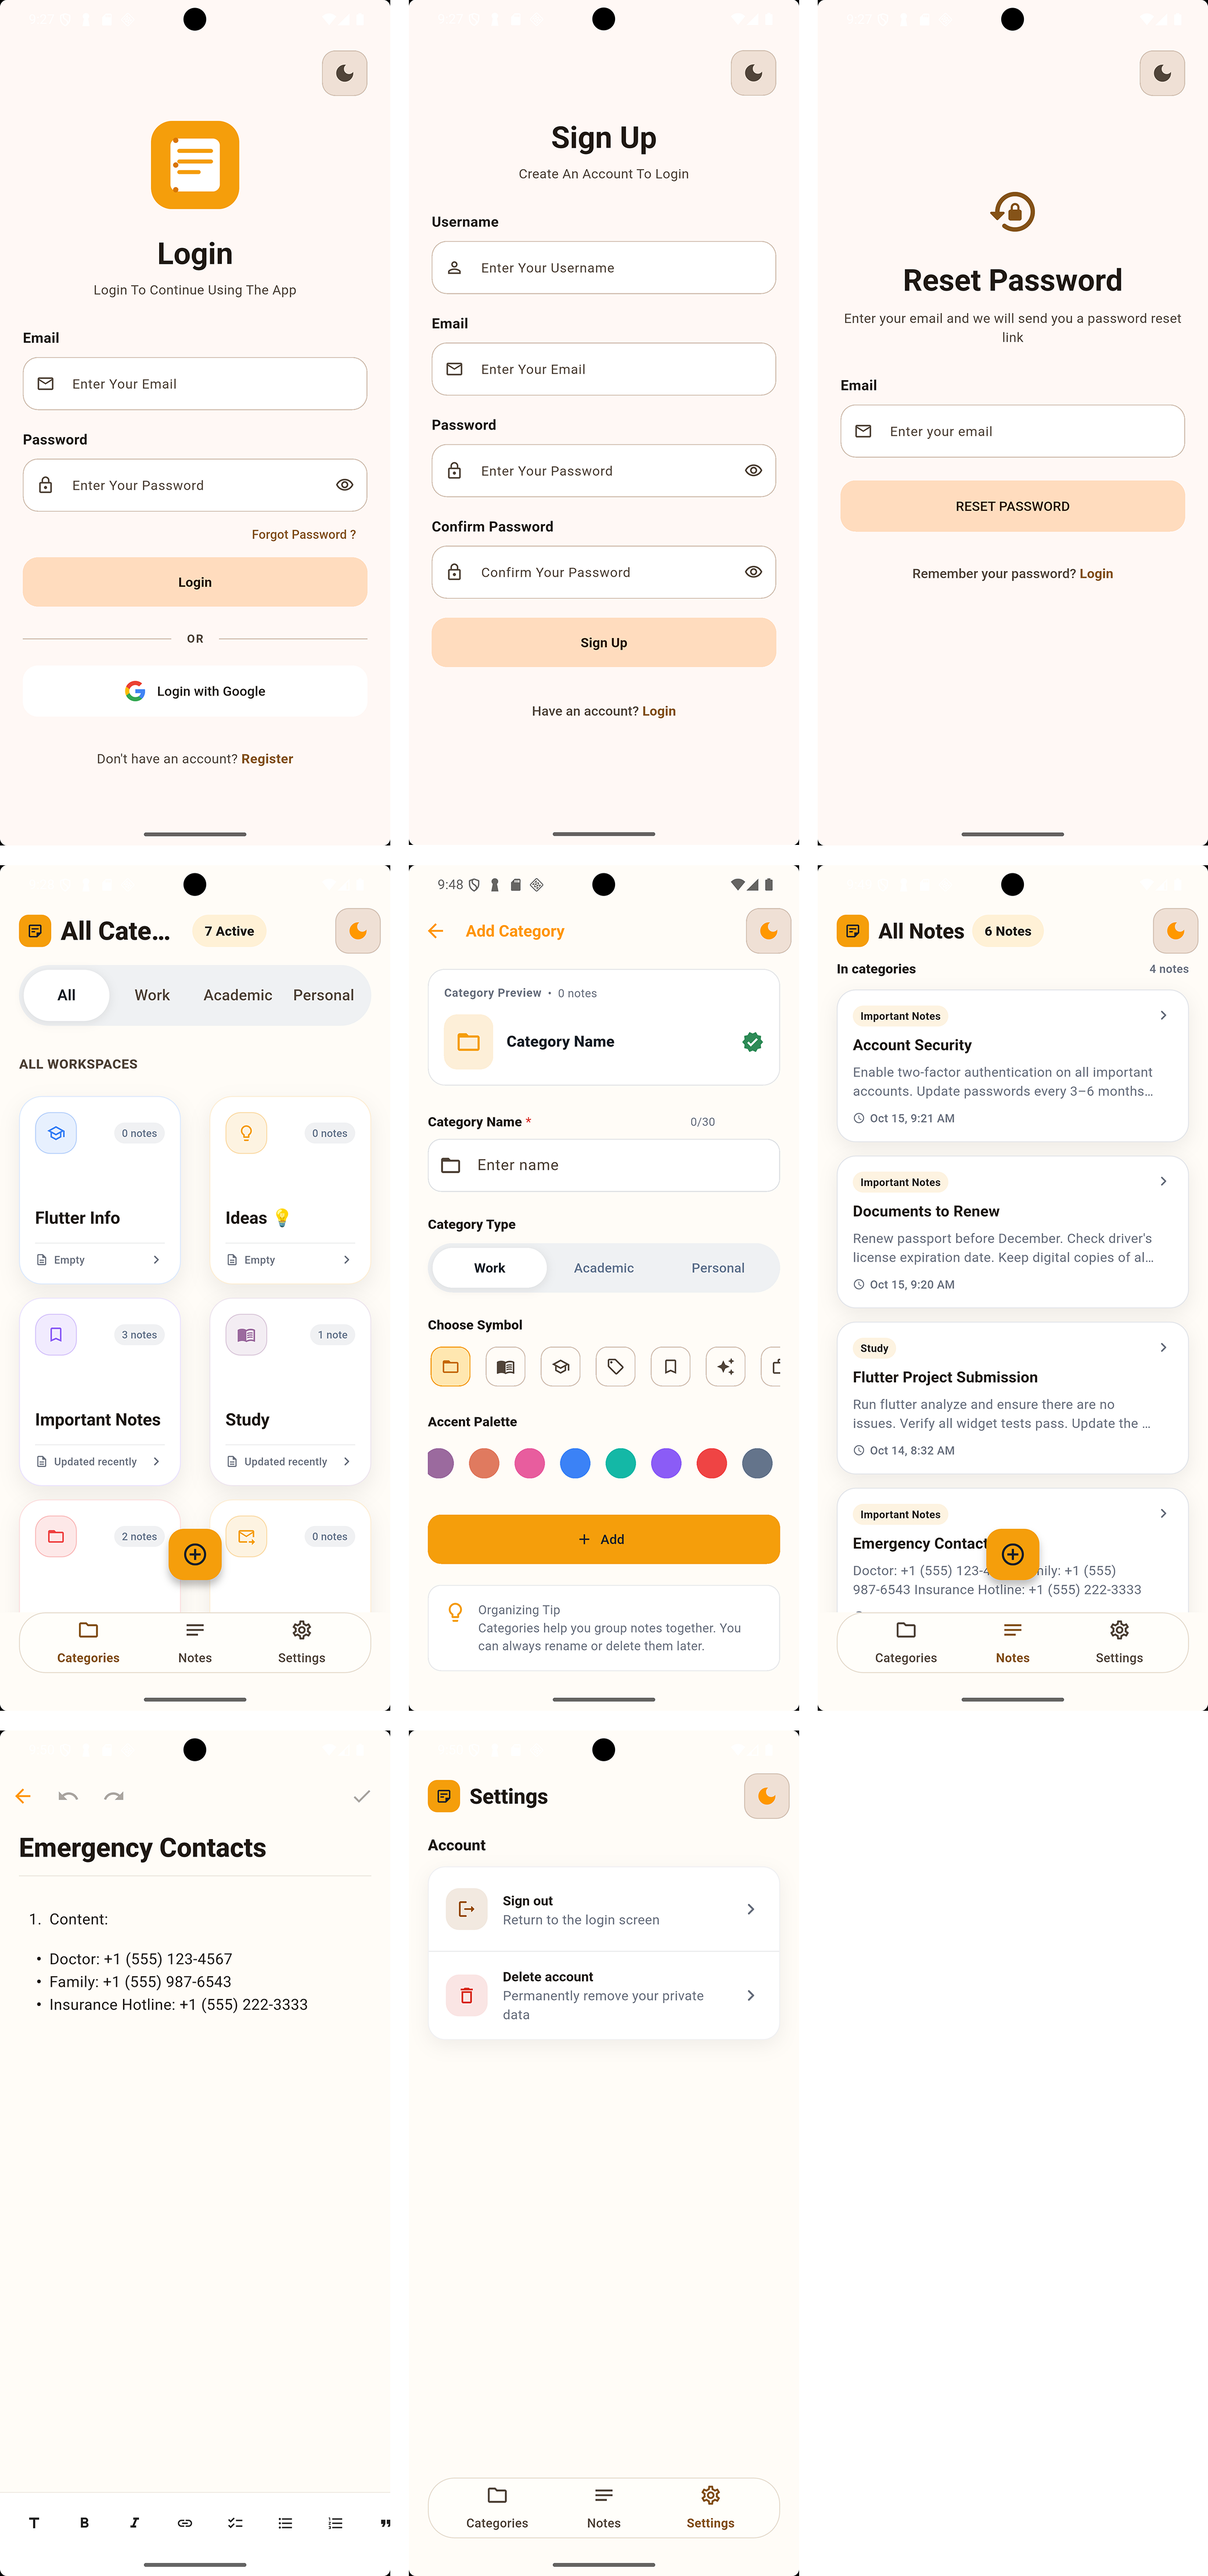
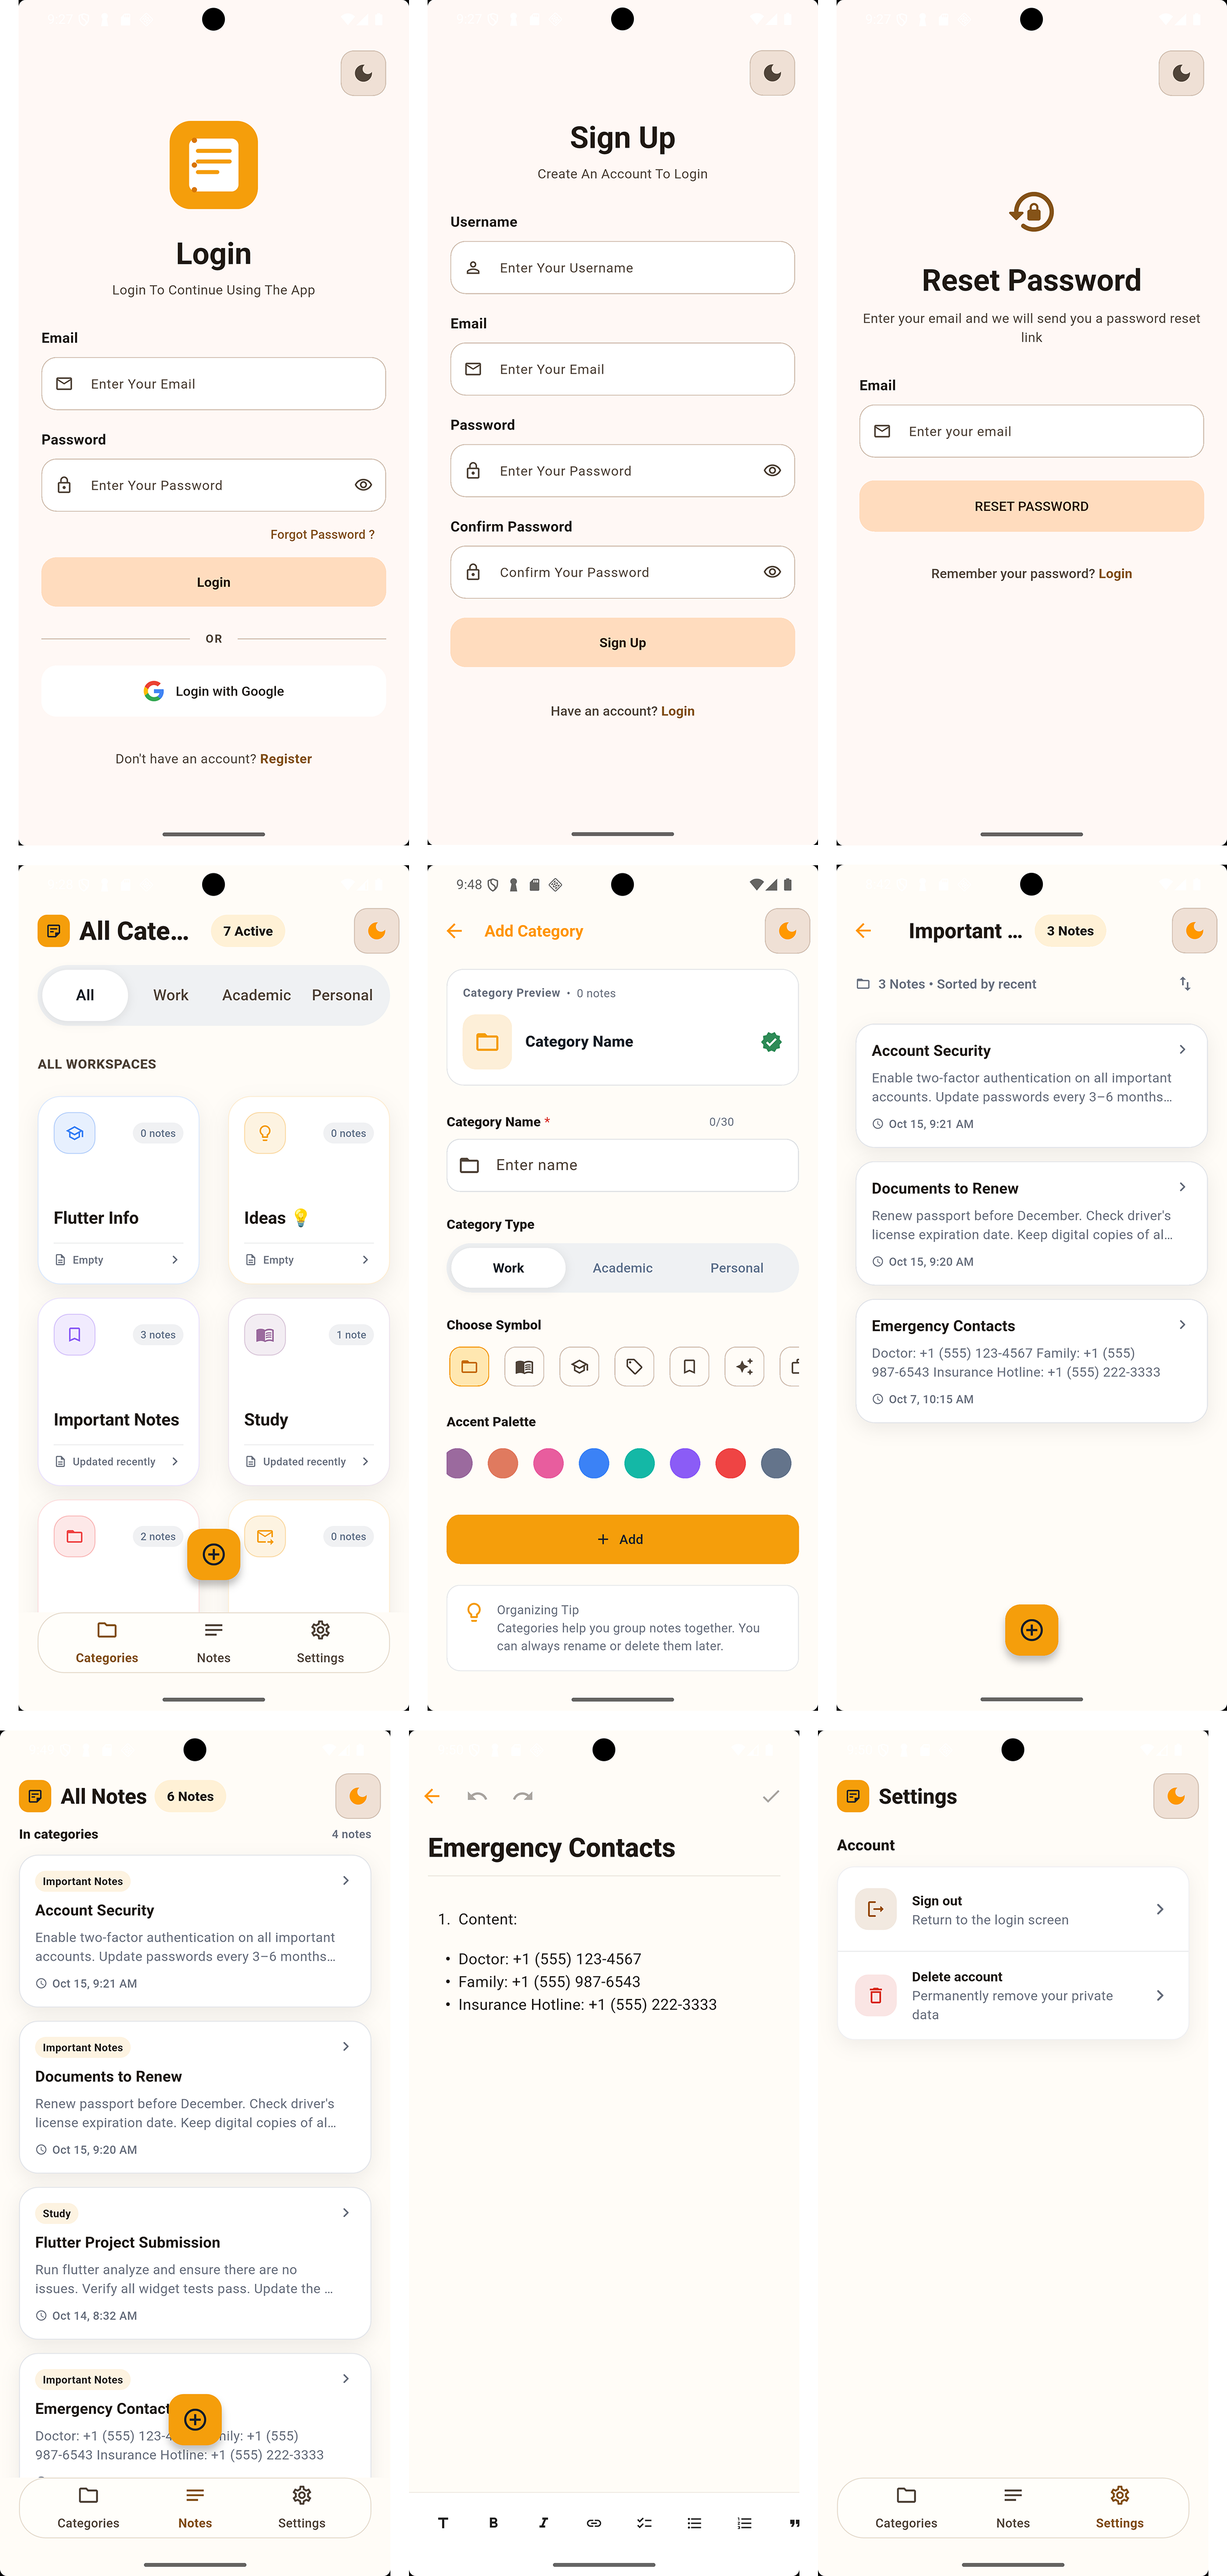
Clean up dependencies and asset files
- Remove unused cupertino_icons, firebase_ui_auth, firebase_ui_oauth_google and integration_test (drops discontinued firebase_dynamic_links)
- Refresh compatible versions and fix flutter_launcher_icons config key
- Regenerate plugin registrants and remove unused images

diff --git a/macos/Flutter/GeneratedPluginRegistrant.swift b/macos/Flutter/GeneratedPluginRegistrant.swift
@@ -7,24 +7,22 @@ import Foundation
 
 import cloud_firestore
 import connectivity_plus
-import desktop_webview_auth
 import firebase_auth
 import firebase_core
 import google_sign_in_ios
 import quill_native_bridge_macos
-import rive_common
+import rive_native
 import shared_preferences_foundation
 import url_launcher_macos
 
 func RegisterGeneratedPlugins(registry: FlutterPluginRegistry) {
   FLTFirebaseFirestorePlugin.register(with: registry.registrar(forPlugin: "FLTFirebaseFirestorePlugin"))
   ConnectivityPlusPlugin.register(with: registry.registrar(forPlugin: "ConnectivityPlusPlugin"))
-  DesktopWebviewAuthPlugin.register(with: registry.registrar(forPlugin: "DesktopWebviewAuthPlugin"))
   FLTFirebaseAuthPlugin.register(with: registry.registrar(forPlugin: "FLTFirebaseAuthPlugin"))
   FLTFirebaseCorePlugin.register(with: registry.registrar(forPlugin: "FLTFirebaseCorePlugin"))
   FLTGoogleSignInPlugin.register(with: registry.registrar(forPlugin: "FLTGoogleSignInPlugin"))
   QuillNativeBridgePlugin.register(with: registry.registrar(forPlugin: "QuillNativeBridgePlugin"))
-  RivePlugin.register(with: registry.registrar(forPlugin: "RivePlugin"))
+  RiveNativePlugin.register(with: registry.registrar(forPlugin: "RiveNativePlugin"))
   SharedPreferencesPlugin.register(with: registry.registrar(forPlugin: "SharedPreferencesPlugin"))
   UrlLauncherPlugin.register(with: registry.registrar(forPlugin: "UrlLauncherPlugin"))
 }

diff --git a/windows/flutter/generated_plugin_registrant.cc b/windows/flutter/generated_plugin_registrant.cc
@@ -8,11 +8,10 @@
 
 #include <cloud_firestore/cloud_firestore_plugin_c_api.h>
 #include <connectivity_plus/connectivity_plus_windows_plugin.h>
-#include <desktop_webview_auth/desktop_webview_auth_plugin.h>
 #include <file_selector_windows/file_selector_windows.h>
 #include <firebase_auth/firebase_auth_plugin_c_api.h>
 #include <firebase_core/firebase_core_plugin_c_api.h>
-#include <rive_common/rive_plugin.h>
+#include <rive_native/rive_native_plugin.h>
 #include <url_launcher_windows/url_launcher_windows.h>
 
 void RegisterPlugins(flutter::PluginRegistry* registry) {
@@ -20,16 +19,14 @@ void RegisterPlugins(flutter::PluginRegistry* registry) {
       registry->GetRegistrarForPlugin("CloudFirestorePluginCApi"));
   ConnectivityPlusWindowsPluginRegisterWithRegistrar(
       registry->GetRegistrarForPlugin("ConnectivityPlusWindowsPlugin"));
-  DesktopWebviewAuthPluginRegisterWithRegistrar(
-      registry->GetRegistrarForPlugin("DesktopWebviewAuthPlugin"));
   FileSelectorWindowsRegisterWithRegistrar(
       registry->GetRegistrarForPlugin("FileSelectorWindows"));
   FirebaseAuthPluginCApiRegisterWithRegistrar(
       registry->GetRegistrarForPlugin("FirebaseAuthPluginCApi"));
   FirebaseCorePluginCApiRegisterWithRegistrar(
       registry->GetRegistrarForPlugin("FirebaseCorePluginCApi"));
-  RivePluginRegisterWithRegistrar(
-      registry->GetRegistrarForPlugin("RivePlugin"));
+  RiveNativePluginRegisterWithRegistrar(
+      registry->GetRegistrarForPlugin("RiveNativePlugin"));
   UrlLauncherWindowsRegisterWithRegistrar(
       registry->GetRegistrarForPlugin("UrlLauncherWindows"));
 }

diff --git a/linux/flutter/generated_plugin_registrant.cc b/linux/flutter/generated_plugin_registrant.cc
@@ -6,17 +6,13 @@
 
 #include "generated_plugin_registrant.h"
 
-#include <desktop_webview_auth/desktop_webview_auth_plugin.h>
-#include <rive_common/rive_plugin.h>
+#include <rive_native/rive_native_plugin.h>
 #include <url_launcher_linux/url_launcher_plugin.h>
 
 void fl_register_plugins(FlPluginRegistry* registry) {
-  g_autoptr(FlPluginRegistrar) desktop_webview_auth_registrar =
-      fl_plugin_registry_get_registrar_for_plugin(registry, "DesktopWebviewAuthPlugin");
-  desktop_webview_auth_plugin_register_with_registrar(desktop_webview_auth_registrar);
-  g_autoptr(FlPluginRegistrar) rive_common_registrar =
-      fl_plugin_registry_get_registrar_for_plugin(registry, "RivePlugin");
-  rive_plugin_register_with_registrar(rive_common_registrar);
+  g_autoptr(FlPluginRegistrar) rive_native_registrar =
+      fl_plugin_registry_get_registrar_for_plugin(registry, "RiveNativePlugin");
+  rive_native_plugin_register_with_registrar(rive_native_registrar);
   g_autoptr(FlPluginRegistrar) url_launcher_linux_registrar =
       fl_plugin_registry_get_registrar_for_plugin(registry, "UrlLauncherPlugin");
   url_launcher_plugin_register_with_registrar(url_launcher_linux_registrar);
